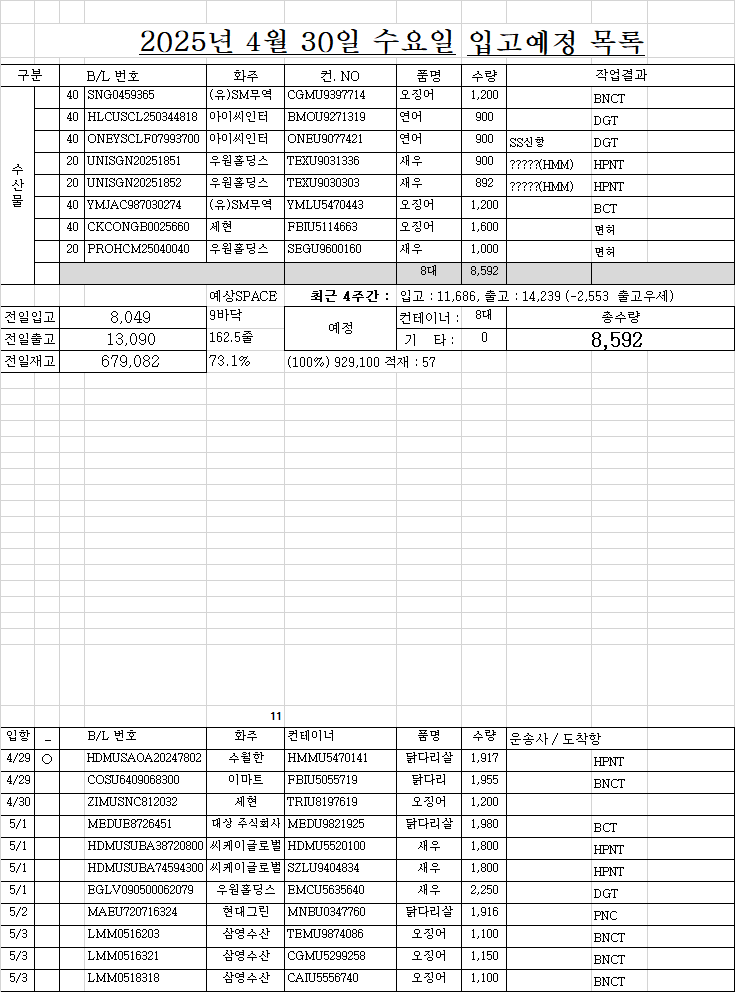
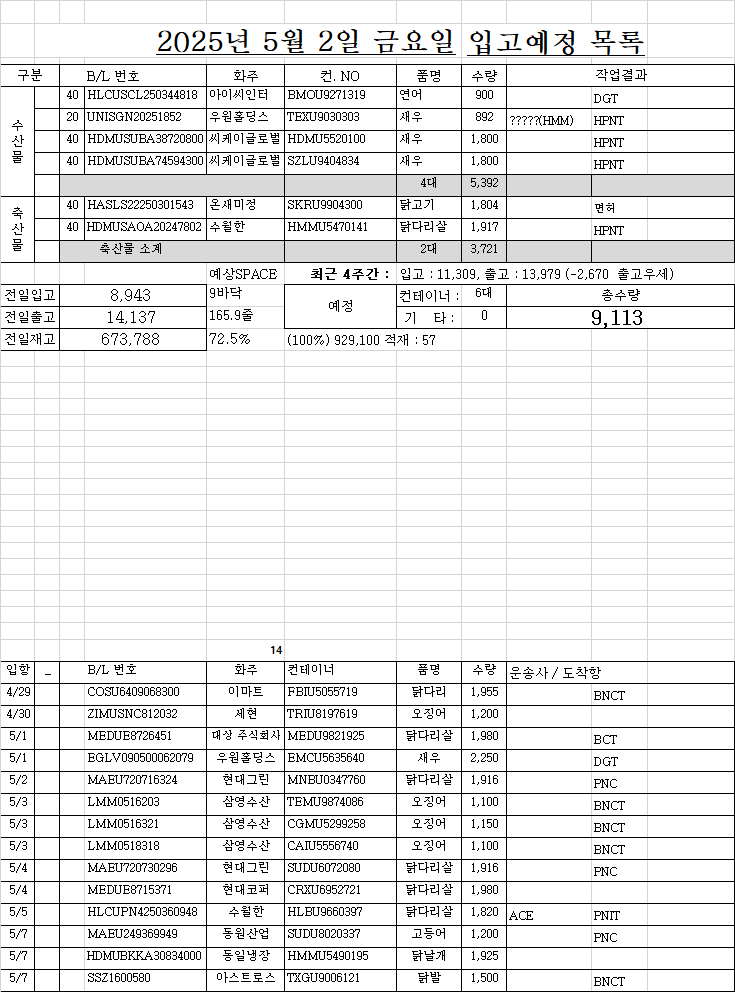
SDFSDSDF

diff --git a/list.html b/list.html
@@ -144,55 +144,53 @@
 </div>
 <!-- ★★★★★★ 따로 빼 놔야한다. 복붙하면 첫칸 비어도 되는데, 여기서는 첫칸비우면 당겨진다. -->
 <!-- ★ 엑셀범위를 브라우저 textarea에 붙여넣으면 첫셀 비어도 제대로 되는데... HTML에 붙여놓은 자료는 처음셀이 비어있으면 당겨짐 -->
-<div class="d-none" id="원본text_리스트1부터w요약열까지">작성	면허	B/LNO.	화주	컨테이너NO.	품명	수량	반입NO.	입항일	구분	도착일	도착시간	구분	운.도VBA	04/29 화 16:13	화찰BL	화찰 선명	화물관리번호	화찰수량	화찰중량	화찰입항	리스트시트기준열	
-  1	○	SNG0459365	(유)SM무역	CGMU9397714	오징어	1,200 	BNCT	4/28	1				BNCT		SNG0459365	CMA CGM GANGES	25CMAL0261I-2068-	1,200 	24,450.00 	2025.04.26	04/29 화 16:13	
-  1		HLCUSCL250344818	아이씨인터	BMOU9271319	연어	900 	DGT	4/28	1				DGT			ONE IBIS(PNIT)					조회정보	
-  1	○	ONEYSCLF07993700	아이씨인터	ONEU9077421	연어	900 	SS신항.DGT	4/28	1				SS신항.DGT		ONEYSCLF07993700	ONE IBIS	25ONEY0535I-2032-	900 	23,598.00 	2025.04.28	적재	57 
-  1		UNISGN20251851	우원홀딩스	TEXU9031336	새우	900 	?????(HMM).HPNT	4/28	1	HMM		20 	?????(HMM).HPNT			HMM HARMONY					4,617 	3줄
-  1		UNISGN20251852	우원홀딩스	TEXU9030303	새우	892 	?????(HMM).HPNT	4/28	1	HMM		20 	?????(HMM).HPNT			HMM HARMONY					6,156 	4줄
-  1	○	YMJAC987030274	(유)SM무역	YMLU5470443	오징어	1,200 	BCT	4/29	1				BCT		YMJAC987030274	KOTA CAHAYA	25PILK0043I-4011-	1,200 	24,660.00 	2025.04.29	7,695 	5줄
-  1	○	CKCONGB0025660	세현	FBIU5114663	오징어	1,600 	면허	4/29	1						CKCONGB0025660	BAL BOAN	25CKCO0406I-2079-0001	1,600 	17,280.00 	2025.04.29	9,234 	6줄
-  1	○	PROHCM25040040	우원홀딩스	SEGU9600160	새우	1,000 	면허	4/29	1			20 			PROHCM25040040	PANCON BRIDGE	25PCLUBK05I-2534-0001	1,000 	7,200.00 	2025.04.29		
-  2	○	HDMUSAOA20247802	수월한	HMMU5470141	닭다리살	1,917 	HPNT	4/29	2				HPNT		HDMUSAOA20247802	ONE BLUE JAY	25ONEY0517I-7032-	1,917 	23,962.50 	2025.04.29	출고/입고 4주간	
-      COSU6409068300	이마트	FBIU5055719	닭다리	1,955 	BNCT	4/29	2				BNCT			COSCO BELGIUM					1일 7/5	5일줄
-      ZIMUSNC812032	세현	TRIU8197619	오징어	1,200 		4/30	1												14,151 	46
-      MEDUE8726451	대상 주식회사	MEDU9821925	닭다리살	1,980 	BCT	5/1	2				BCT			MSC SHANELLE V					11,814 	38.4
-      HDMUSUBA38720800	씨케이글로벌	HDMU5520100	새우	1,800 	HPNT	5/1	1				HPNT			HAIAN OPUS					내국제외	
-      HDMUSUBA74594300	씨케이글로벌	SZLU9404834	새우	1,800 	HPNT	5/1	1				HPNT			HAIAN OPUS					구분	대수
-      EGLV090500062079	우원홀딩스	EMCU5635640	새우	2,250 	DGT	5/1	1				DGT			EVER VAST(NSB)					수산	26
-      MAEU720716324	현대그린	MNBU0347760	닭다리살	1,916 	PNC	5/2	2				PNC			ANAXAGORAS					축산	37
-      LMM0516203	삼영수산	TEMU9874086	오징어	1,100 	BNCT	5/3	1				BNCT			PELION					합계	63
-      LMM0516321	삼영수산	CGMU5299258	오징어	1,150 	BNCT	5/3	1				BNCT			PELION						
-      LMM0518318	삼영수산	CAIU5556740	오징어	1,100 	BNCT	5/3	1				BNCT			PELION					화주별 요약	
-      MAEU720730296	현대그린	SUDU6072080	닭다리살	1,916 	PNC	5/4	2				PNC			GOOD PROSPECT					화주	대수
-      HLCUPN4250360948	수월한	HLBU9660397	닭다리살	1,820 	ACE.PNIT	5/5	2				ACE.PNIT			ONE ORINOCO					삼영수산	12
-      MAEU249369949	동원산업	SUDU8020337	고등어	1,200 	PNC	5/7	1				PNC			SEASPAN GANGES					현대그린	8
-      SSZ1600580	아스트로스	TXGU9006121	닭발	1,500 	BNCT	5/7	2				BNCT			CMA CGM GANGES					이마트	6
-      MEDUSF542055	대성무역	MEDU9801929	닭다리	1,960 	PNC	5/8	2				PNC			MSC IRINA					아스트로스	6
-      HDMUSAOA74511900	아스트로스	HMMU5406477	닭발	1,500 	DGT	5/8	2				DGT			HYUNDAI INTEGRAL(SX2)					수월한	5
-      HLCUIT1250309388	동원홈푸드	HLBU9444309	닭다리살	1,958 	HJNC	5/9	2				HJNC			YM WIND					대성무역	5
-      HLCUIT1250321155	동원홈푸드	HLBU9945039	닭다리살	1,958 	HJNC	5/9	2				HJNC			YM WIND					우원홀딩스	4
-      HLCUIT1250304541	수월한	HLBU9525490	닭다리살	1,958 	HJNC	5/9	2				HJNC			YM WIND					참트레이딩	3
-      ONEYSAOF10309700	대성무역	OTPU6043145	닭장각	1,568 	PNIT	5/10	2				PNIT			BUENAVENTURA EXPRESS					(유)SM무역	2
-      LMM0617799	삼영수산	SEKU9247042	오징어	1,100 	BNCT	5/10	1				BNCT			CMA CGM DIGNITY					아이씨인터	2
-      HLCURI4250308931	아스트로스	HLBU9707508	닭다리살	1,960 	PNIT	5/10	2				PNIT			OSAKA EXPRESS					세현	2
-      MAEUJBS266067	대성무역	MNBU3880109	닭다리살	1,958 	PNC	5/11	2				PNC			HERTA					대상 주식회사	2
+<div class="d-none" id="원본text_리스트1부터w요약열까지">작성	면허	B/LNO.	화주	컨테이너NO.	품명	수량	반입NO.	입항일	구분	도착일	도착시간	구분	운.도VBA	04/30 수 15:48	화찰BL	화찰 선명	화물관리번호	화찰수량	화찰중량	화찰입항	리스트시트기준열	
+  1		HLCUSCL250344818	아이씨인터	BMOU9271319	연어	900 	DGT	4/28	1				DGT			ONE IBIS(PNIT)					04/30 수 15:48	
+  1	○	UNISGN20251852	우원홀딩스	TEXU9030303	새우	892 	?????(HMM).HPNT	4/28	1	HMM		20 	?????(HMM).HPNT		UNISGN20251852	HMM HARMONY	25HDMUA194I-0110-0001	892 	10,971.60 	2025.04.28	조회정보	
+  1	○	HDMUSUBA38720800	씨케이글로벌	HDMU5520100	새우	1,800 	HPNT	5/1	1				HPNT		HDMUSUBA38720800	HAIAN OPUS	25HDMUA195I-0144-	1,800 	19,800.00 	2025.05.01	적재	57 
+  1	○	HDMUSUBA74594300	씨케이글로벌	SZLU9404834	새우	1,800 	HPNT	5/1	1				HPNT		HDMUSUBA74594300	HAIAN OPUS	25HDMUA195I-0145-	1,800 	19,052.00 	2025.05.01	4,617 	3줄
+  1	○	HASLS22250301543	온새미정	SKRU9904300	닭고기	1,804 	면허	4/27	2						HASLS22250301543	DONGJIN CONFIDENT	25DJSC7060I-7211-	1,804 	19,654.58 	2025.04.27	6,156 	4줄
+  1	○	HDMUSAOA20247802	수월한	HMMU5470141	닭다리살	1,917 	HPNT	4/29	2				HPNT		HDMUSAOA20247802	ONE BLUE JAY	25ONEY0517I-7032-	1,917 	23,962.50 	2025.04.29	7,695 	5줄
+      COSU6409068300	이마트	FBIU5055719	닭다리	1,955 	BNCT	4/29	2				BNCT			COSCO BELGIUM					9,234 	6줄
+      ZIMUSNC812032	세현	TRIU8197619	오징어	1,200 		4/30	1													
+      MEDUE8726451	대상 주식회사	MEDU9821925	닭다리살	1,980 	BCT	5/1	2				BCT			MSC SHANELLE V					출고/입고 4주간	
+      EGLV090500062079	우원홀딩스	EMCU5635640	새우	2,250 	DGT	5/1	1				DGT			EVER VAST(NSB)					1일 7/5	5일줄
+      MAEU720716324	현대그린	MNBU0347760	닭다리살	1,916 	PNC	5/2	2				PNC			ANAXAGORAS					14,239 	46.3
+      LMM0516203	삼영수산	TEMU9874086	오징어	1,100 	BNCT	5/3	1				BNCT			PELION					11,686 	38
+      LMM0516321	삼영수산	CGMU5299258	오징어	1,150 	BNCT	5/3	1				BNCT			PELION					내국제외	
+      LMM0518318	삼영수산	CAIU5556740	오징어	1,100 	BNCT	5/3	1				BNCT			PELION					구분	대수
+      MAEU720730296	현대그린	SUDU6072080	닭다리살	1,916 	PNC	5/4	2				PNC			GOOD PROSPECT					수산	22
+      MEDUE8715371	현대코퍼	CRXU6952721	닭다리살	1,980 		5/4	2												축산	41
+      HLCUPN4250360948	수월한	HLBU9660397	닭다리살	1,820 	ACE.PNIT	5/5	2				ACE.PNIT			ONE ORINOCO					합계	63
+      MAEU249369949	동원산업	SUDU8020337	고등어	1,200 	PNC	5/7	1				PNC			SEASPAN GANGES						
+      HDMUBKKA30834000	동일냉장	HMMU5490195	닭날개	1,925 		5/7	2												화주별 요약	
+      SSZ1600580	아스트로스	TXGU9006121	닭발	1,500 	BNCT	5/7	2				BNCT			CMA CGM GANGES					화주	대수
+      MEDUSF542055	대성무역	MEDU9801929	닭다리	1,960 	PNC	5/8	2				PNC			MSC IRINA					삼영수산	12
+      HDMUSAOA74511900	아스트로스	HMMU5406477	닭발	1,500 	DGT	5/8	2				DGT			HYUNDAI INTEGRAL(SX2)					현대그린	8
+      HLCUIT1250309388	동원홈푸드	HLBU9444309	닭다리살	1,958 	HJNC	5/9	2				HJNC			YM WIND					이마트	6
+      HLCUIT1250321155	동원홈푸드	HLBU9945039	닭다리살	1,958 	HJNC	5/9	2				HJNC			YM WIND					아스트로스	6
+      HLCUIT1250304541	수월한	HLBU9525490	닭다리살	1,958 	HJNC	5/9	2				HJNC			YM WIND					수월한	5
+      ONEYSAOF10309700	대성무역	OTPU6043145	닭장각	1,568 	PNIT	5/10	2				PNIT			BUENAVENTURA EXPRESS					대성무역	5
+      LMM0617799	삼영수산	SEKU9247042	오징어	1,100 	BNCT	5/10	1				BNCT			CMA CGM DIGNITY					우원홀딩스	3
+      HLCURI4250308931	아스트로스	HLBU9707508	닭다리살	1,960 	PNIT	5/10	2				PNIT			OSAKA EXPRESS					대상 주식회사	3
+      MAEUJBS266067	대성무역	MNBU3880109	닭다리살	1,958 	PNC	5/11	2				PNC			HERTA					참트레이딩	3
       MAEUJBS265384	이마트	MMAU1098489	닭다리살	1,958 	PNC	5/11	2				PNC			TYNDALL					씨케이글로벌	2
       MAEUJBS265395	이마트	MNBU3068060	닭다리살	1,954 	PNC	5/11	2				PNC			TYNDALL					동원홈푸드	2
-      MAEU250905748	참트레이딩	MNBU3819829	닭다리	1,916 	PNC	5/11	2				PNC			TYNDALL					동원산업	1
-      MAEU250905759	참트레이딩	MNBU0528769	닭다리	1,916 	PNC	5/11	2				PNC			TYNDALL					GK교역	1
-      MAEU251317333	참트레이딩	MNBU3771751	닭다리	1,916 	PNC	5/11	2				PNC			TYNDALL					합계	63
-      MAEU720723306	현대그린	MNBU0233407	닭다리	1,916 	PNC	5/11	2				PNC			TYNDALL						
-      MEDUP3837838	삼영수산	MEDU9834856	오징어	1,103 	BCT	5/13	1				BCT			MSC LONG BEACH VI						
-      MEDUP3837838	삼영수산	MEDU9902462	오징어	1,115 	BCT	5/13	1				BCT			MSC LONG BEACH VI						
-      HLCUPN4250371249	현대그린	HLBU9291560	닭다리살	1,950 		5/15	2							LUDWIGSHAFEN EXPRESS						
-      VAPPUS202503004922	GK교역	YMLU5398117	오징어	1,200 	????(양밍)._	5/17	1	양밍			????(양밍)._			WAN HAI 625						
-      MAEUJBS265733	수월한	MMAU1348470	닭다리	1,958 	PNC	5/17	2				PNC									
+      MAEU250905748	참트레이딩	MNBU3819829	닭다리	1,916 	PNC	5/11	2				PNC			TYNDALL					아이씨인터	1
+      MAEU250905759	참트레이딩	MNBU0528769	닭다리	1,916 	PNC	5/11	2				PNC			TYNDALL					온새미정	1
+      MAEU251317333	참트레이딩	MNBU3771751	닭다리	1,916 	PNC	5/11	2				PNC			TYNDALL					세현	1
+      MAEU720723306	현대그린	MNBU0233407	닭다리	1,916 	PNC	5/11	2				PNC			TYNDALL					현대코퍼	1
+      MEDUP3837838	삼영수산	MEDU9834856	오징어	1,103 	BCT	5/13	1				BCT			MSC LONG BEACH VI					동원산업	1
+      MEDUP3837838	삼영수산	MEDU9902462	오징어	1,115 	BCT	5/13	1				BCT			MSC LONG BEACH VI					동일냉장	1
+      HLCUPN4250371249	현대그린	HLBU9291560	닭다리살	1,950 		5/15	2							LUDWIGSHAFEN EXPRESS					GK교역	1
+      VAPPUS202503004922	GK교역	YMLU5398117	오징어	1,200 	????(양밍)._	5/17	1	양밍			????(양밍)._			WAN HAI 625					씨에이치씨	1
+      MAEUJBS265733	수월한	MMAU1348470	닭다리	1,958 	PNC	5/17	2				PNC								합계	63
       COSU6411358099	아스트로스	BMOU9272737	닭근위	1,568 		5/17	2							COSCO SHIPPING SAKURA						
       COSU6453332820	아스트로스	FBIU5291870	닭다리	1,960 		5/17	2							COSCO SHIPPING SAKURA						
       LMM0519185	삼영수산	CAIU5547245	오징어	1,100 		5/21	1													
       MEDUHI239300	대상 주식회사	TRIU8592444	닭다리	1,980 		5/23	2													
       HDMUSAOA58311701	대성무역	HMMU5533002	닭다리	1,960 		5/24	2							HYUNDAI FAITH						
+      MAEUSSZ783520	대상 주식회사	MNBU4483596	닭다리살	1,980 		5/25	2													
       MEDUSF531637	대성무역	MEDU9029013	닭다리	1,960 		5/25	2							MSC CARUELA						
       MAEU252127813	현대그린	MNBU4017833	닭다리	1,950 		5/25	2													
       MAEU720746420	현대그린	MNBU3068749	닭다리	1,916 		5/25	2													
@@ -206,6 +204,7 @@
       HLCULI3250414545	삼영수산	HLBU9398760	오징어	1,100 		6/4	1													
       MAEUJBS262899	이마트	SUDU5294817	닭다리	1,953 	PNC	6/8	2				PNC			MARIT MAERSK						
       DLPMC00087298	삼영수산	SEKU9072242	오징어	1,225 		6/12	1													
+      041FX01242	씨에이치씨	SEGU9959850	새우	929 			1			20 										
       COSU6412397050	이마트	TTNU8273967	닭다리	1 		미정	2							COSCO SHIPPING ROSE						
       MAEUJBS266239	이마트	MMAU1162802	닭다리	1 	PNC	미정	2				PNC			HERTA						  
 </div>
